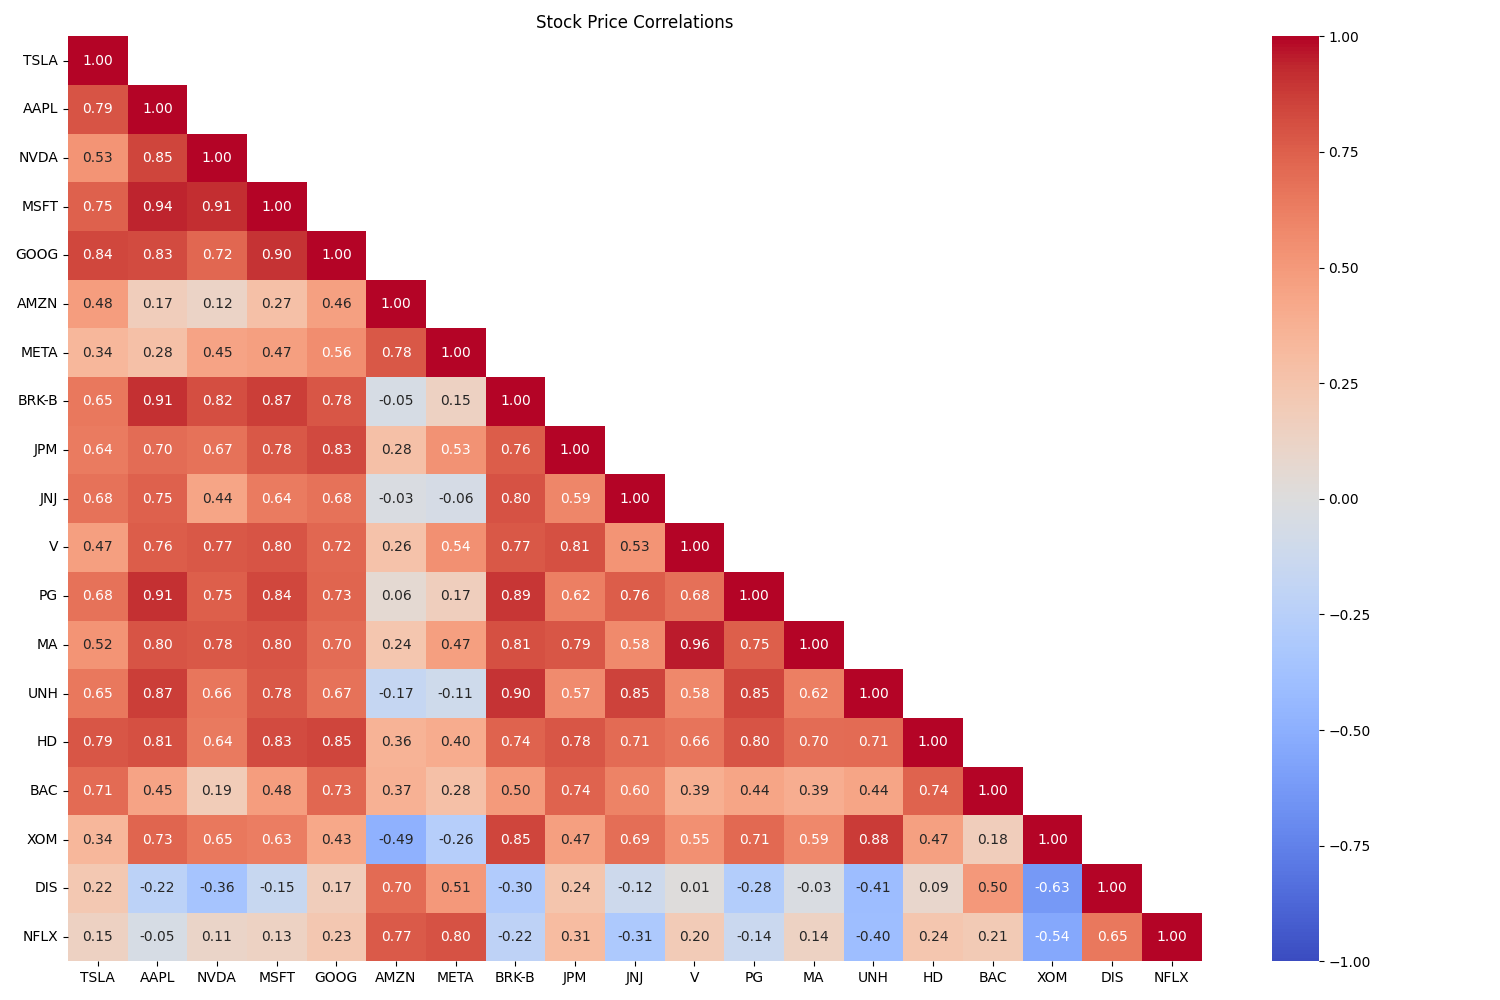
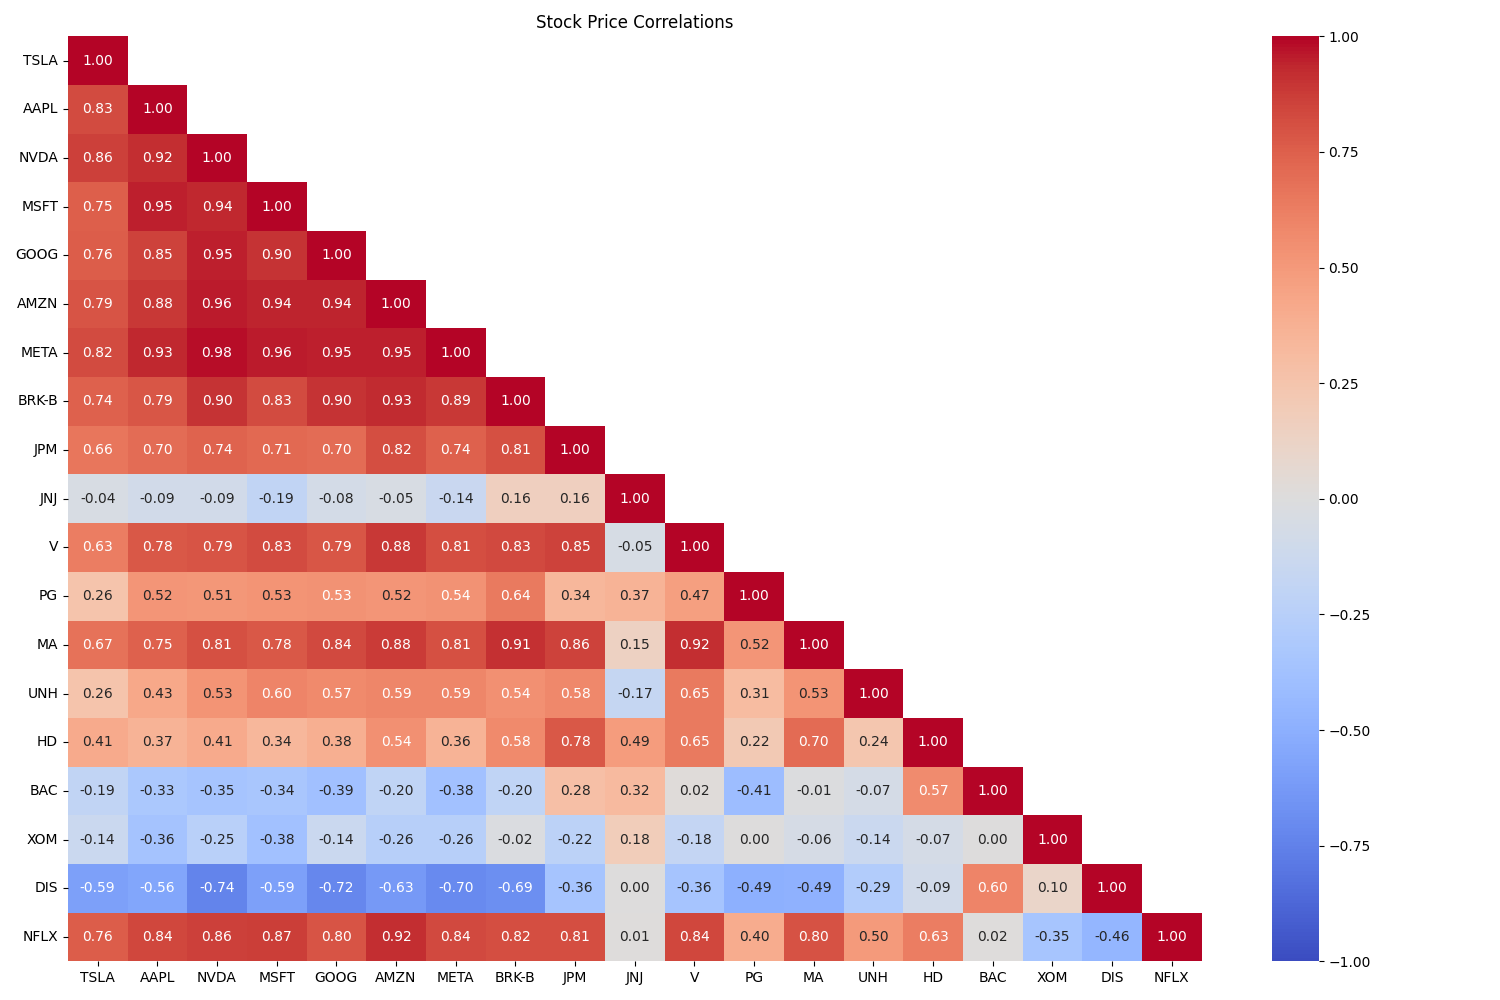
Update stock prediction and correlation analysis parameters

Changed region(s): [[0.0307, 0.186, 0.7667, 0.961], [0.0307, 0.124, 0.092, 0.186]]

diff --git a/main.py b/main.py
@@ -6,7 +6,10 @@ from visualization import plot_stock_predictions_multi
 
 def predict_stock_price(symbol, start, end):
     stock_data = download_stock_data(symbol, start, end)
-    time_step = 100
+    
+    data_length = len(stock_data)
+    time_step = max(min(int(data_length * 0.2), 100), 5)
+    
     X_train, X_test, y_train, y_test, scaler, scaled_data = prepare_data(
         stock_data, time_step
     )
@@ -25,7 +28,7 @@ def predict_stock_price(symbol, start, end):
     test_data_size = len(predictions)
     training_data_size = len(full_actual_values) - test_data_size - time_step - 1
 
-    future_days = 30
+    future_days = 7
     future_predictions = predict_future(
         model, scaled_data, time_step, future_days, scaler
     )
@@ -34,6 +37,9 @@ def predict_stock_price(symbol, start, end):
     future_dates = pd.date_range(
         start=last_date + pd.Timedelta(days=1), periods=future_days, freq="B"
     )
+
+    print(f"predictions: {predictions}")
+    print(f"actual_values: {actual_values}")
 
     return {
         "stock_data": stock_data,
@@ -50,6 +56,7 @@ def predict_stock_price(symbol, start, end):
 
 def compare_stocks(symbols, start, end):
     predictions_data = []
+    
     for symbol in symbols:
         print(f"\nProcessing {symbol}...")
         stock_prediction = predict_stock_price(symbol, start, end)
@@ -60,14 +67,14 @@ def compare_stocks(symbols, start, end):
 
 if __name__ == "__main__":
     symbols = [
-        # "TSLA",
-        # "AAPL",
-        # "NVDA",
-        "SPY",  # S&P 500 ETF
-        "QQQ",  # Nasdaq 100 ETF
-        "VTI",  # Total Stock Market ETF
-        "VUSA.L",
+        "TSLA",
+        "AAPL",
+        "NVDA",
+        # "SPY",  # S&P 500 ETF
+        # "QQQ",  # Nasdaq 100 ETF
+        # "VTI",  # Total Stock Market ETF
+        # "VUSA.L",
     ]
-    start = "2019-01-01"  # Using 5 years of data
-    end = "2024-02-21"
+    start = "2024-01-01"  # Using 5 years of data
+    end = "2024-12-31"
     compare_stocks(symbols, start, end)

diff --git a/correlation.py b/correlation.py
@@ -98,7 +98,7 @@ if __name__ == "__main__":
     # stocks_to_compare = etfs
     stocks_to_compare = stocks
 
-    start = "2020-01-01"
+    start = "2023-01-01"  # Using 5 years of data
     end = "2024-01-01"
 
     correlation_matrix, price_data = calculate_stock_correlations(

diff --git a/README.md b/README.md
@@ -46,50 +46,3 @@ Run the correlation script to analyze stock correlations:
 ```bash
 uv run correlation.py
 ```
-
-## Findings
-
-### LSTM Model Performance
-
-LSTMs are designed to remember long-term patterns, which makes them good at capturing underlying trends in stock price movements.
-
-#### Stable Stocks (e.g. AAPL)
-
-Result in better predictions because:
-
-- The relationship between past and future values is more consistent
-- There are fewer extreme events to disrupt the learned patterns
-
-#### Volatile Stocks (e.g. TSLA)
-
-Show larger prediction errors because:
-
-- Sudden price changes can't be predicted from historical patterns alone
-- External factors (news, tweets, market sentiment) cause rapid shifts that historical data doesn't capture
-
-#### ETFs (e.g. VTI)
-
-Show smaller prediction errors because:
-
-- They represent a basket of stocks, which reduces volatility
-- The relationship between past and future values is more consistent
-- There are fewer extreme events to disrupt the learned patterns
-
-### Correlation Analysis
-
-#### ETF Correlations
-
-ETFs like SPY (S&P 500), QQQ (NASDAQ 100), and VTI (Total Market) show very high correlation with each other since they track overlapping market segments. This is because:
-
-- Many of the same large-cap stocks are included in multiple ETFs
-- When the overall market moves up or down, these ETFs tend to move together
-
-![ETFs correlation heat map](https://github.com/user-attachments/assets/aeff97a0-f225-4824-a559-492fd349ee8c)
-
-![ETFs correlation chart](https://github.com/user-attachments/assets/b63c6c38-1b6a-437c-b1e3-70fb20872eb4)
-
-#### Stock Correlations
-
-Some stocks display high correlation with each other. For example, V (Visa) and MA (Mastercard):
-
-![v-ma](https://github.com/user-attachments/assets/9547dc48-f056-474b-a93b-7279c8c43a43)
